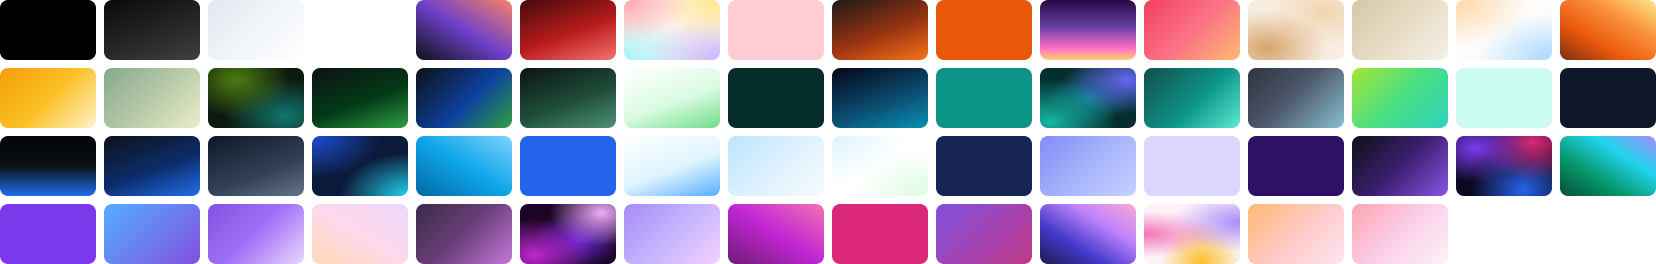
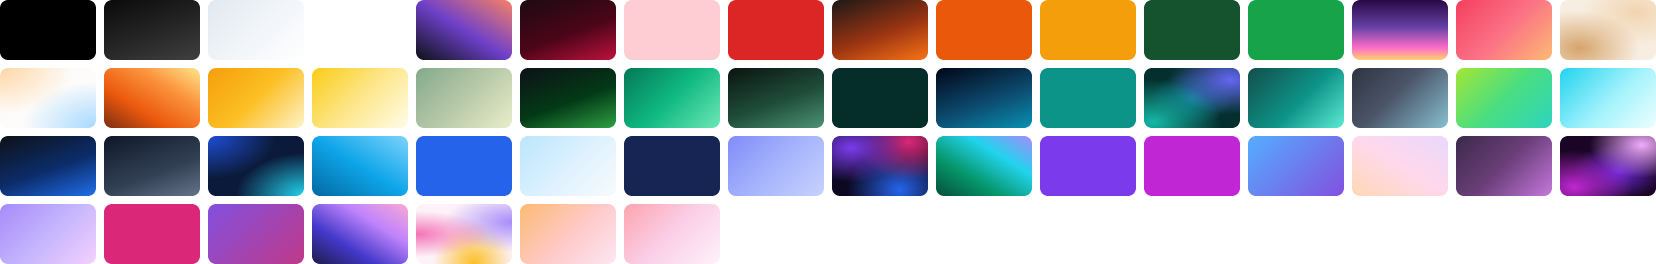
feat(core): fill the color gaps of the background presets
Add Red, Amber, Forest, Green and Fuchsia solids and Merlot, Lemon, Emerald and Aqua gradients. Drop 16 presets that look almost the same as another one. The set goes from 62 to 55 presets, and no theme default changes.

diff --git a/packages/core/src/backgrounds.ts b/packages/core/src/backgrounds.ts
@@ -32,18 +32,13 @@ export const BACKGROUNDS: Array<BackgroundPreset> = [
     css: "linear-gradient(to right top, #0d1117, #6e40c9, #f78166)",
   },
   {
-    id: "garnet",
-    name: "Garnet",
+    id: "merlot",
+    name: "Merlot",
     kind: "gradient",
-    css: "linear-gradient(160deg, #450a0a 0%, #b91c1c 55%, #f87171 100%)",
-  },
-  {
-    id: "mesh-dawn",
-    name: "Dawn",
-    kind: "mesh",
-    css: "radial-gradient(at 0% 0%, #fda4af 0px, transparent 50%), radial-gradient(at 100% 0%, #fde68a 0px, transparent 50%), radial-gradient(at 100% 100%, #c4b5fd 0px, transparent 55%), radial-gradient(at 0% 100%, #a5f3fc 0px, transparent 55%), #fff7ed",
+    css: "linear-gradient(160deg, #1c0a12 0%, #4c0519 55%, #be123c 100%)",
   },
   { id: "blush", name: "Blush", kind: "color", css: "#fecdd3" },
+  { id: "red", name: "Red", kind: "color", css: "#dc2626" },
   {
     id: "ember",
     name: "Ember",
@@ -51,6 +46,9 @@ export const BACKGROUNDS: Array<BackgroundPreset> = [
     css: "linear-gradient(160deg, #1c1917 0%, #9a3412 55%, #f97316 100%)",
   },
   { id: "orange", name: "Orange", kind: "color", css: "#ea580c" },
+  { id: "amber", name: "Amber", kind: "color", css: "#f59e0b" },
+  { id: "forest", name: "Forest", kind: "color", css: "#14532d" },
+  { id: "green", name: "Green", kind: "color", css: "#16a34a" },
   {
     id: "synthwave",
     name: "Synthwave",
@@ -68,12 +66,6 @@ export const BACKGROUNDS: Array<BackgroundPreset> = [
     name: "Dune",
     kind: "mesh",
     css: "radial-gradient(at 20% 80%, #d6a46b 0px, transparent 55%), radial-gradient(at 80% 20%, #f2d4b0 0px, transparent 50%), #f7ede0",
-  },
-  {
-    id: "linen",
-    name: "Linen",
-    kind: "gradient",
-    css: "linear-gradient(135deg, #d6c7a8 0%, #e7dcc6 50%, #f5f0e6 100%)",
   },
   {
     id: "daybreak",
@@ -94,16 +86,16 @@ export const BACKGROUNDS: Array<BackgroundPreset> = [
     css: "linear-gradient(135deg, #f59e0b 0%, #fbbf24 50%, #fef3c7 100%)",
   },
   {
+    id: "lemon",
+    name: "Lemon",
+    kind: "gradient",
+    css: "linear-gradient(135deg, #facc15 0%, #fde68a 50%, #fefce8 100%)",
+  },
+  {
     id: "sage",
     name: "Sage",
     kind: "gradient",
     css: "linear-gradient(135deg, #84a98c 0%, #b7c9a8 50%, #e9edc9 100%)",
-  },
-  {
-    id: "mesh-moss",
-    name: "Moss",
-    kind: "mesh",
-    css: "radial-gradient(at 30% 20%, #4d7c0f 0px, transparent 55%), radial-gradient(at 80% 80%, #0f766e 0px, transparent 55%), #0c1a0e",
   },
   {
     id: "evergreen",
@@ -112,22 +104,16 @@ export const BACKGROUNDS: Array<BackgroundPreset> = [
     css: "linear-gradient(160deg, #0d1117 0%, #033a16 55%, #2ea043 100%)",
   },
   {
-    id: "octo",
-    name: "Octo",
+    id: "emerald",
+    name: "Emerald",
     kind: "gradient",
-    css: "linear-gradient(135deg, #0d1117 0%, #0d419d 55%, #2ea043 100%)",
+    css: "linear-gradient(135deg, #047857 0%, #10b981 50%, #6ee7b7 100%)",
   },
   {
     id: "jade",
     name: "Jade",
     kind: "gradient",
     css: "linear-gradient(160deg, #0b1410 0%, #1f4d3a 55%, #4d9375 100%)",
-  },
-  {
-    id: "fresh",
-    name: "Fresh",
-    kind: "gradient",
-    css: "linear-gradient(160deg, #ffffff 0%, #dafbe1 55%, #6fdd8b 100%)",
   },
   { id: "pine", name: "Pine", kind: "color", css: "#052e2b" },
   {
@@ -161,13 +147,11 @@ export const BACKGROUNDS: Array<BackgroundPreset> = [
     kind: "gradient",
     css: "linear-gradient(135deg, #a3e635 0%, #4ade80 50%, #2dd4bf 100%)",
   },
-  { id: "seafoam", name: "Seafoam", kind: "color", css: "#ccfbf1" },
-  { id: "night", name: "Night", kind: "color", css: "#0f172a" },
   {
-    id: "night-sky",
-    name: "Night Sky",
+    id: "aqua",
+    name: "Aqua",
     kind: "gradient",
-    css: "linear-gradient(180deg, #010409 0%, #0d1117 50%, #1f6feb 100%)",
+    css: "linear-gradient(135deg, #22d3ee 0%, #a5f3fc 55%, #ecfeff 100%)",
   },
   {
     id: "primer",
@@ -195,22 +179,10 @@ export const BACKGROUNDS: Array<BackgroundPreset> = [
   },
   { id: "blue", name: "Blue", kind: "color", css: "#2563eb" },
   {
-    id: "primer-light",
-    name: "Primer Light",
-    kind: "gradient",
-    css: "linear-gradient(160deg, #ffffff 0%, #ddf4ff 55%, #54aeff 100%)",
-  },
-  {
     id: "ice",
     name: "Ice",
     kind: "gradient",
     css: "linear-gradient(135deg, #bae6fd 0%, #e0f2fe 55%, #f8fafc 100%)",
-  },
-  {
-    id: "sky",
-    name: "Sky",
-    kind: "mesh",
-    css: "radial-gradient(at 0% 0%, #ddf4ff 0px, transparent 55%), radial-gradient(at 100% 100%, #dafbe1 0px, transparent 55%), #ffffff",
   },
   { id: "navy", name: "Navy", kind: "color", css: "#172554" },
   {
@@ -218,14 +190,6 @@ export const BACKGROUNDS: Array<BackgroundPreset> = [
     name: "Periwinkle",
     kind: "gradient",
     css: "linear-gradient(135deg, #818cf8 0%, #a5b4fc 50%, #c7d2fe 100%)",
-  },
-  { id: "lilac", name: "Lilac", kind: "color", css: "#ddd6fe" },
-  { id: "aubergine", name: "Aubergine", kind: "color", css: "#2e1065" },
-  {
-    id: "copilot",
-    name: "Copilot",
-    kind: "gradient",
-    css: "linear-gradient(135deg, #0d1117 0%, #3c1e70 50%, #8957e5 100%)",
   },
   {
     id: "mesh-nebula",
@@ -240,17 +204,12 @@ export const BACKGROUNDS: Array<BackgroundPreset> = [
     css: "linear-gradient(to right top, #064e3b, #059669, #22d3ee, #a78bfa)",
   },
   { id: "violet", name: "Violet", kind: "color", css: "#7c3aed" },
+  { id: "fuchsia", name: "Fuchsia", kind: "color", css: "#c026d3" },
   {
     id: "ocean",
     name: "Ocean",
     kind: "gradient",
     css: "linear-gradient(135deg, #54aeff 0%, #8250df 100%)",
-  },
-  {
-    id: "violet-wash",
-    name: "Violet Wash",
-    kind: "gradient",
-    css: "linear-gradient(135deg, #8250df 0%, #a371f7 50%, #e9d8fd 100%)",
   },
   {
     id: "sunrise",
@@ -275,12 +234,6 @@ export const BACKGROUNDS: Array<BackgroundPreset> = [
     name: "Lavender",
     kind: "gradient",
     css: "linear-gradient(135deg, #a78bfa 0%, #c4b5fd 50%, #f5d0fe 100%)",
-  },
-  {
-    id: "magenta",
-    name: "Magenta",
-    kind: "gradient",
-    css: "linear-gradient(to right top, #701a75, #c026d3, #f472b6)",
   },
   { id: "pink", name: "Pink", kind: "color", css: "#db2777" },
   {

diff --git a/README.md b/README.md
@@ -97,10 +97,10 @@ Show the reader where to look. Highlight full lines, or give any part of a line 
 ### Backgrounds
 
 <p align="center">
-  <img alt="The 62 background presets: colors, gradients and meshes" src="docs/images/backgrounds.png" width="860">
+  <img alt="The 55 background presets: colors, gradients and meshes" src="docs/images/backgrounds.png" width="860">
 </p>
 
-- 62 presets of colors, gradients and meshes, a color picker, and any CSS gradient.
+- 55 presets of colors, gradients and meshes, a color picker, and your own CSS linear or radial gradients.
 - An opacity slider, down to a transparent image.
 - Padding around the windows.
 
